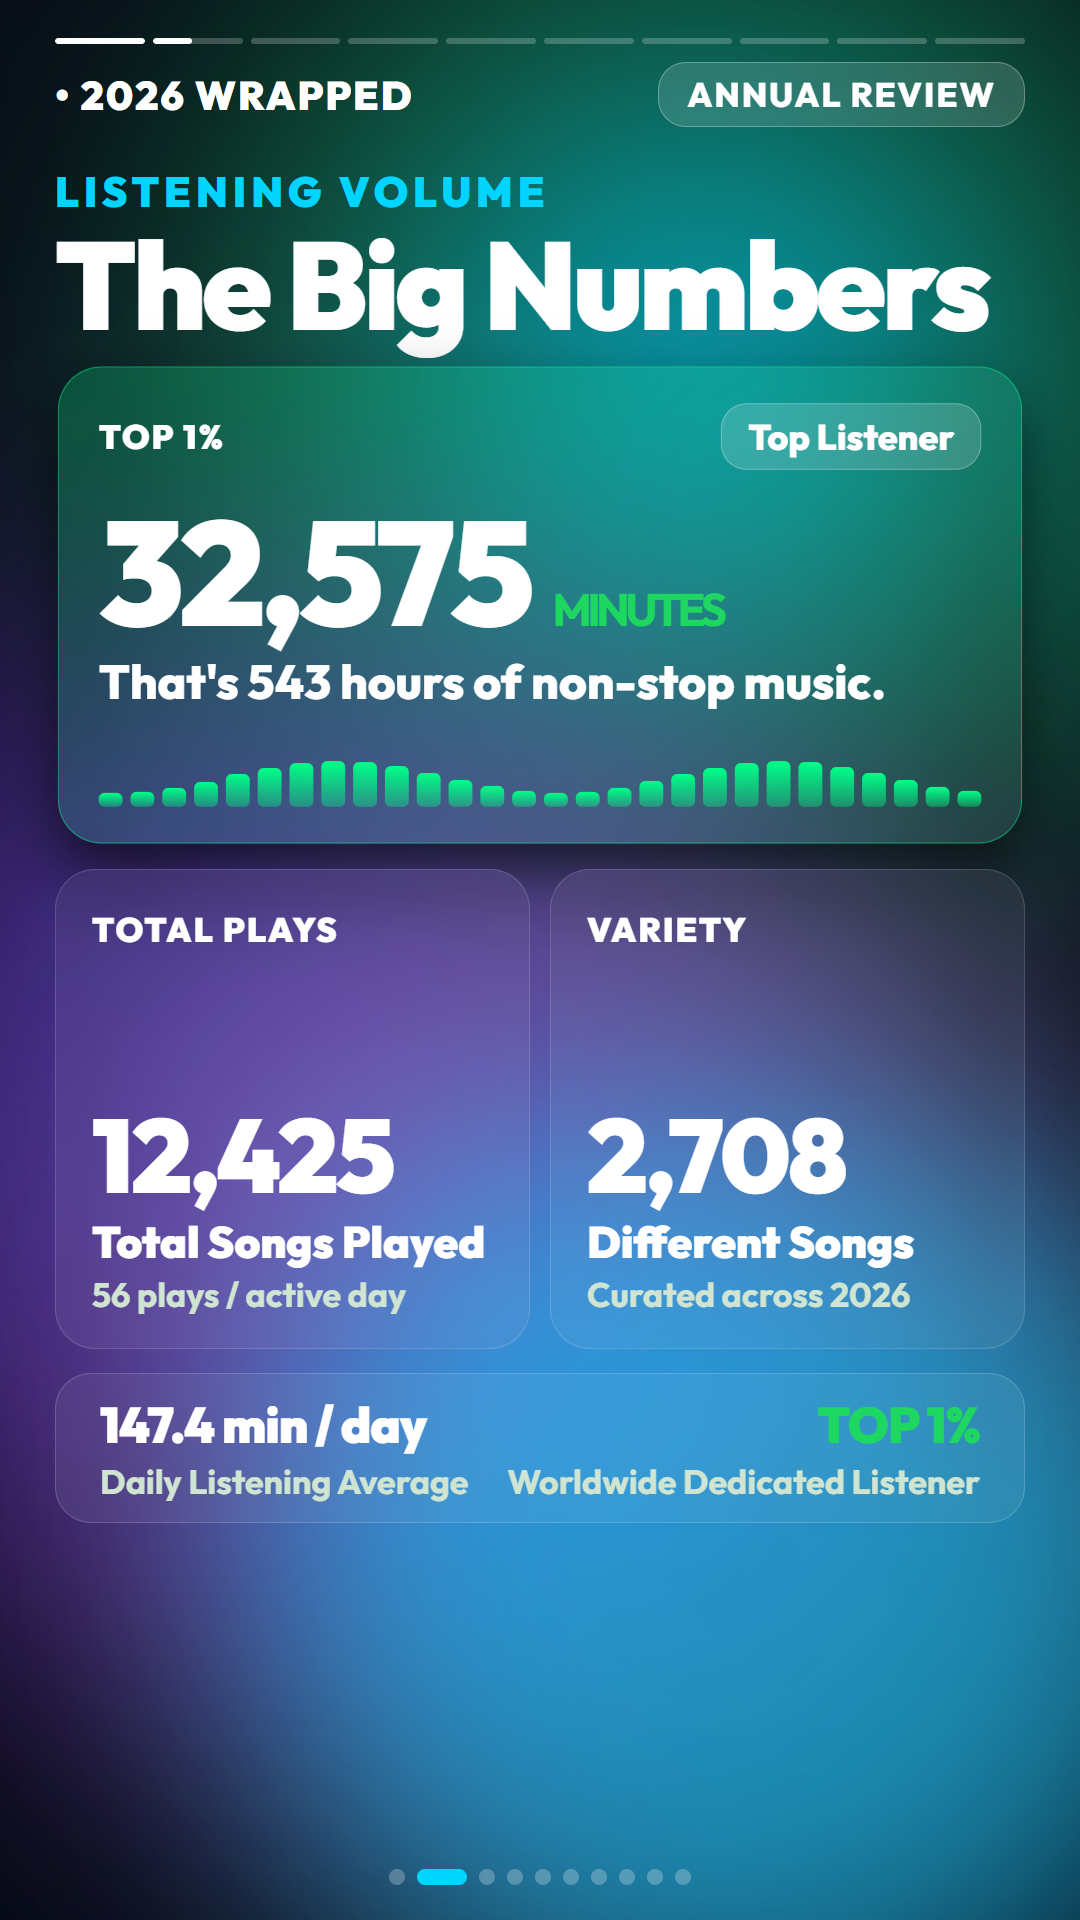
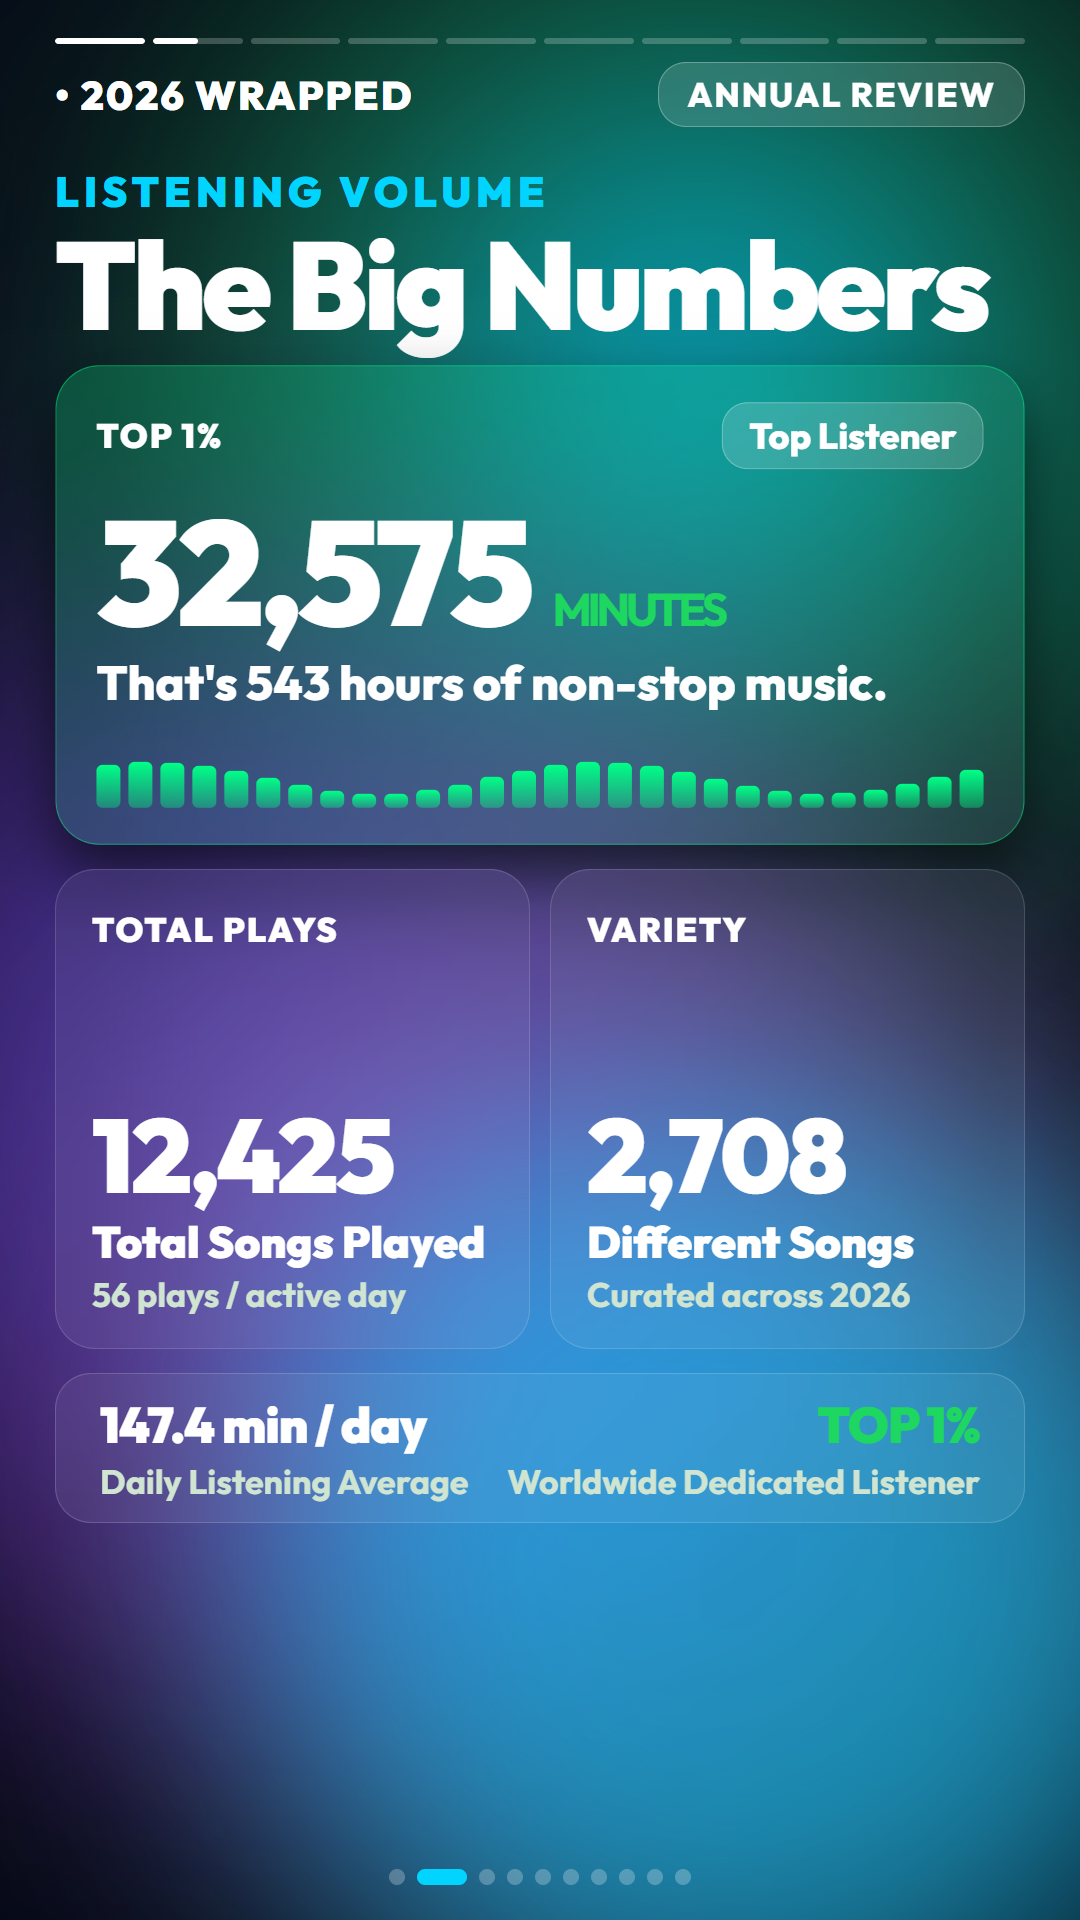
improved saving performance

diff --git a/src/server/static/app.js b/src/server/static/app.js
@@ -1553,11 +1553,13 @@ async function browseSavePath() {
       const inputEl = document.getElementById('inp-export-path');
       if (inputEl) inputEl.value = data.selected_path;
       showTerminalToast(`[PATH SELECTED] ${data.selected_path}`);
+      return data.selected_path;
     }
   } catch (err) {
     console.error('File browse error:', err);
     showTerminalToast(`[ERROR] File explorer dialog failed: ${err.message}`, true);
   }
+  return null;
 }
 
 async function saveCurrentPanelLocal() {
@@ -1585,53 +1587,52 @@ async function saveCurrentPanelLocal() {
 }
 
 /**
- * Saves and renders the video according to active parameters to the requested destination path.
- * Why: Guarantees that saving executes a fresh render matching current parameters
- * (whether custom slice sequence or single panel slice or full review), and updates the right-hand player.
+ * Saves and renders the video strictly according to the Custom Slices & Order settings
+ * to the requested destination path on disk.
+ * Why: Ensures that whenever the user clicks 'Save Video', the output file reflects the exact
+ * selection, sequence, and individual slide audio configuration chosen in the Composer.
  */
 async function saveVideoToPath() {
   const inputEl = document.getElementById('inp-export-path');
-  const targetPath = (inputEl ? inputEl.value : '').trim();
+  let targetPath = (inputEl ? inputEl.value : '').trim();
 
+  // If no path is entered yet, proactively open Windows File Explorer
   if (!targetPath) {
-    showTerminalToast('[WARNING] Please choose or enter a destination path with Browse... first', true);
-    if (inputEl) inputEl.focus();
+    showTerminalToast('[INFO] Opening Windows File Explorer to choose destination...');
+    targetPath = await browseSavePath();
+    if (!targetPath) {
+      showTerminalToast('[INFO] Save Video cancelled: No destination path chosen.');
+      return;
+    }
+  }
+
+  // Derive slice sequence strictly from Custom Slices & Order
+  const selectedOrdered = appState.slicesOrder.filter(pid => appState.selectedSlices.has(pid));
+  if (selectedOrdered.length === 0) {
+    showTerminalToast('[WARNING] Please select at least one slice in Custom Slices & Order before saving.', true);
     return;
   }
 
-  // Determine what parameters to render according to:
-  const selectedOrdered = appState.slicesOrder.filter(pid => appState.selectedSlices.has(pid));
-  const isCustomSequence = selectedOrdered.length !== 10 || selectedOrdered.some((pid, idx) => pid !== idx);
+  const isDefault10 = selectedOrdered.length === 10 && selectedOrdered.every((pid, idx) => pid === idx);
+  const totalSec = (selectedOrdered.length * 5.0).toFixed(1);
+  const seqNames = selectedOrdered.map(p => `#${p + 1}`).join(' → ');
+  const modeDesc = isDefault10
+    ? 'Full Presentation (10 slides • 50.0s)'
+    : `Custom Sequence (${selectedOrdered.length} slides • ${totalSec}s: [${seqNames}])`;
 
-  let payload = {
+  const payload = {
     target_path: targetPath,
-    render_first: true
+    render_first: true,
+    selected_panels: selectedOrdered,
+    fps: 25
   };
 
-  let modeDesc = 'Full Video (10 slides)';
-  if (isCustomSequence) {
-    payload.selected_panels = selectedOrdered;
-    modeDesc = `Custom Sequence (${selectedOrdered.length} slides)`;
-  } else if (appState.playbackScope === 'single') {
-    payload.panel_id = appState.currentPanel;
-    modeDesc = `Panel ${appState.currentPanel + 1} Slice (5.0s)`;
-  } else {
-    payload.selected_panels = [0, 1, 2, 3, 4, 5, 6, 7, 8, 9];
-    modeDesc = 'Full Presentation (50.0s)';
-  }
-
   setPreviewMode('video');
-  const isCustom = appState.playbackScope === 'custom';
-  const isSingle = appState.playbackScope === 'single';
-  const badgeText = isCustom ? 'CUSTOM EXPORT (25 FPS)' : (isSingle ? 'SLICE EXPORT (25 FPS)' : 'FULL EXPORT (25 FPS)');
-  const titleText = isCustom ? 'Exporting Custom Story' : (isSingle ? `Exporting Slide #${appState.currentPanel + 1}` : 'Exporting Full Story');
-  const subText = `${modeDesc} • Generating full 25 FPS stream with FFmpeg`;
-
   showRenderOverlay({
-    badge: badgeText,
-    title: titleText,
-    subtitle: subText,
-    path: targetPath || null
+    badge: isDefault10 ? 'FULL EXPORT (25 FPS)' : 'CUSTOM EXPORT (25 FPS)',
+    title: 'Exporting Presentation Video',
+    subtitle: `${modeDesc} • Generating full 25 FPS stream with FFmpeg`,
+    path: targetPath
   });
 
   showTerminalToast(`[RENDERING] Building ${modeDesc} and saving to: ${targetPath}...`);

diff --git a/src/renderer/preview_engine.js b/src/renderer/preview_engine.js
@@ -34,13 +34,15 @@ async function capturePreviews(options = {}) {
 
   const times = options.times || [
     { name: 'slide_1_year_in_sound', t: 2.5 },
-    { name: 'slide_2_big_numbers', t: 7.2 },
-    { name: 'slide_3_listening_clock', t: 11.9 },
-    { name: 'slide_4_top_songs', t: 16.6 },
-    { name: 'slide_5_top_albums', t: 21.4 },
-    { name: 'slide_6_top_artists', t: 26.1 },
-    { name: 'slide_7_top_discoveries', t: 30.8 },
-    { name: 'slide_8_top_genres', t: 35.6 }
+    { name: 'slide_2_big_numbers', t: 7.5 },
+    { name: 'slide_3_listening_clock', t: 12.5 },
+    { name: 'slide_4_top_songs', t: 17.5 },
+    { name: 'slide_5_top_albums', t: 22.5 },
+    { name: 'slide_6_top_artists', t: 27.5 },
+    { name: 'slide_7_top_discoveries', t: 32.5 },
+    { name: 'slide_8_top_genres', t: 37.5 },
+    { name: 'slide_9_most_listened_songs', t: 42.5 },
+    { name: 'slide_10_most_listened_artists', t: 47.5 }
   ];
 
   for (const s of times) {

diff --git a/src/server/app.py b/src/server/app.py
@@ -145,17 +145,17 @@ async def get_status() -> PanelStatusResponse:
 
     single_url = _output_url(single_path) if single_path.exists() else None
 
-    # Prioritize active panel slice if available, then fallback to last rendered video
-    if single_path.exists():
-        video_url = _output_url(single_path)
-    elif studio_service.last_slice_file and studio_service.last_slice_file.exists():
+    # Prioritize the most recently rendered video file if available
+    if studio_service.last_slice_file and studio_service.last_slice_file.exists():
         video_url = _output_url(studio_service.last_slice_file)
-    elif slice_path.exists():
-        video_url = _output_url(slice_path)
     elif custom_path.exists():
         video_url = _output_url(custom_path)
     elif full_video_path.exists():
         video_url = _output_url(full_video_path)
+    elif slice_path.exists():
+        video_url = _output_url(slice_path)
+    elif single_path.exists():
+        video_url = _output_url(single_path)
     else:
         video_url = None
 

diff --git a/src/server/service.py b/src/server/service.py
@@ -655,13 +655,15 @@ renderVideo({{
                 print(f"[Error] Custom sequence render failed: {stderr.decode('utf-8', errors='replace')}")
             else:
                 self.last_slice_file = out_path
+                import shutil
                 if target_path:
-                    import shutil
                     dest_p = Path(target_path.strip(' "\''))
                     if not dest_p.is_absolute():
                         dest_p = (ROOT_DIR / dest_p).resolve()
                     dest_p.parent.mkdir(parents=True, exist_ok=True)
                     shutil.copy2(out_path, dest_p)
+                if valid_panels == list(range(10)):
+                    shutil.copy2(out_path, OUTPUT_VIDEO_PATH)
         finally:
             self.is_rendering = False
             self.render_progress = 100.0

diff --git a/README.md b/README.md
@@ -6,18 +6,11 @@ A deterministic, frame-accurate web-to-video rendering pipeline and interactive 
   <img src="img/web_studio_preview.png" alt="2026 Wrapped Live Curation Studio" width="100%" />
 </div>
 
-<p align="center">
-  <img src="img/story_slide1.png" width="48%" alt="Slide 1 - Your Year in Sound" />
-  &nbsp;
-  <img src="img/story_slide2.png" width="48%" alt="Slide 2 - The Big Numbers" />
-</p>
-
 ---
 
-## Table of Contents
+## Overview
 - [Overview](#overview)
 - [Key Features](#key-features)
-- [System Architecture](#system-architecture)
 - [The 10 Wrapped Slides](#the-10-wrapped-slides)
 - [Dynamic Background Theme & Palette Engine](#dynamic-background-theme--palette-engine)
 - [Project Structure](#project-structure)
@@ -91,16 +84,116 @@ Each slide runs for **5.0 seconds** (0.65s staggered entrance, 3.80s living dyna
 
 | # | Slide Name | Visual Highlights | Key Data Displayed |
 |---|---|---|---|
-| **0** | **Your Year in Sound** | Harmonic frequency waveform with month timeline markers (`JAN`, `MAR`, `MAY (PEAK)`, etc.) & 4 Bento pods | Total Plays, Minutes Streamed, Different Songs, Longest Day Streak |
-| **1** | **The Big Numbers** | 28-channel live audio equalizer stream & hero metric card | Total Listening Time, Total Plays, Different Songs, Daily Average (min/day), Worldwide Listener Tier |
-| **2** | **Listening Clock** | 24-hour radial compass with workday bridge (7 AM – 3 PM) & weekly equalizer | Peak Hour, Workday listening share, Weekly rhythm with Wednesday and Saturday spikes |
-| **3** | **Top Songs** | Spinning vinyl disc with high-res cover + curated 1..5 ranking | Top 5 curated songs with titles, artists, and embedded FLAC front covers (clean, no play counts) |
-| **4** | **Top Albums** | Spinning purple vinyl disc + curated 1..5 album grid | Top 5 albums, artist names, and album artwork |
-| **5** | **Top Artists** | Pulsating avatar glow + ranking cards | Top 5 curated artists with portraits resolved from Namida archives |
-| **6** | **Top Discoveries** | Magenta neon halo & new artist discovery cards | 5 breakthrough artists discovered during the year |
-| **7** | **Top Genres** | SVG Donut chart rollout & 5 genre anthem cards | Top 5 genres paired with representative signature anthems |
-| **8** | **Most Listened Songs** | Spotlight card with vinyl record + telemetry pills | Top 5 streamed songs from raw Namida logs with exact play counts and minutes |
-| **9** | **Most Listened Artists** | Avatar spotlight + streaming metric pills | Top 5 streamed artists from raw Namida logs with exact play counts and minutes |
+| **1** | **Your Year in Sound** | Harmonic frequency waveform with 12-month timeline markers (`JAN`, `MAR`, `MAY (PEAK)`) & 4 Bento pods | Total Plays, Minutes Streamed, Different Songs, Longest Day Streak |
+| **2** | **The Big Numbers** | 28-channel live audio equalizer stream & hero metric card | Total Listening Time, Total Plays, Different Songs, Daily Average (`min/day`), Worldwide Listener Tier |
+| **3** | **Listening Clock** | 24-hour radial compass with workday bridge (7 AM – 3 PM) & weekly equalizer | Peak Hour, Workday listening share, Weekly rhythm with Wednesday and Saturday spikes |
+| **4** | **Top Songs** | Spinning vinyl disc with high-res cover + curated 1..5 ranking | Top 5 curated songs with titles, artists, and embedded FLAC front covers |
+| **5** | **Top Albums** | Spinning purple vinyl disc + curated 1..5 album grid | Top 5 albums, artist names, and album artwork |
+| **6** | **Top Artists** | Pulsating avatar glow + ranking cards | Top 5 curated artists with portraits resolved from Namida archives |
+| **7** | **Top Discoveries** | Magenta neon halo & new artist discovery cards | 5 breakthrough artists discovered during the year |
+| **8** | **Top Genres** | SVG Donut chart rollout & 5 genre anthem cards | Top 5 genres paired with representative signature anthems |
+| **9** | **Most Listened Songs** | Spotlight card with vinyl record + telemetry pills | Top 5 streamed songs from raw Namida logs with exact play counts and minutes |
+| **10** | **Most Listened Artists** | Avatar spotlight + streaming metric pills | Top 5 streamed artists from raw Namida logs with exact play counts and minutes |
+
+---
+
+### Slide 1: Your Year in Sound
+<p align="center">
+  <img src="img/story_slide1.png" width="380" alt="Slide 1 - Your Year in Sound" />
+</p>
+
+- **Motion & Layout**: Smooth cubic-bezier harmonic frequency waveform across a 12-month horizontal axis, animated peak month pill (`MAY (PEAK)`), and 4 glassmorphic Bento metric pods.
+- **Data Displayed**: Total Plays, Total Minutes Streamed, Unique Songs Count, and Longest Daily Listening Streak.
+
+---
+
+### Slide 2: The Big Numbers
+<p align="center">
+  <img src="img/story_slide2.png" width="380" alt="Slide 2 - The Big Numbers" />
+</p>
+
+- **Motion & Layout**: 28-channel animated SVG equalizer stream, prominent $148\text{px}$ hero metric card, twin secondary metric cards, and a daily listening rhythm banner.
+- **Data Displayed**: Total Listening Time, Total Plays, Different Songs, Daily Listening Average (`147.4 min / day`), and Worldwide Listener Tier status (`Top 0.05% Listeners Worldwide`).
+
+---
+
+### Slide 3: Listening Clock
+<p align="center">
+  <img src="img/story_slide3.png" width="380" alt="Slide 3 - Listening Clock" />
+</p>
+
+- **Motion & Layout**: 24-hour radial clock compass with golden chronotype indicator, 7-day weekly equalizer bars, and workday listening share card.
+- **Data Displayed**: Peak Listening Hour, Workday Share (equidistributed across 7:00 AM – 3:00 PM), Chronotype profile (`Night Owl`), and Weekly Rhythm Spikes (`Wednesday & Saturday Releases`).
+
+---
+
+### Slide 4: Top Songs
+<p align="center">
+  <img src="img/story_slide4.png" width="380" alt="Slide 4 - Top Songs" />
+</p>
+
+- **Motion & Layout**: Spinning vinyl record with tone arm and high-resolution album artwork center label, followed by a curated #1 through #5 ranking list.
+- **Data Displayed**: Top 5 Curated Favorite Songs with track title, artist name, and embedded FLAC front cover art.
+
+---
+
+### Slide 5: Top Albums
+<p align="center">
+  <img src="img/story_slide5.png" width="380" alt="Slide 5 - Top Albums" />
+</p>
+
+- **Motion & Layout**: Large purple vinyl disc showcase with album cover center, paired with 4 glassmorphic supporting album cards.
+- **Data Displayed**: Top 5 Curated Albums with album title, release year, artist credits, and cover art.
+
+---
+
+### Slide 6: Top Artists
+<p align="center">
+  <img src="img/story_slide6.png" width="380" alt="Slide 6 - Top Artists" />
+</p>
+
+- **Motion & Layout**: Circular hero artist portrait with chromatic aberration glow and `#1 ARTIST` ribbon, accompanied by #2 through #5 artist cards.
+- **Data Displayed**: Top 5 Favorite Artists with circular avatars resolved automatically from the Namida artist backup database.
+
+---
+
+### Slide 7: Top Discoveries
+<p align="center">
+  <img src="img/story_slide7.png" width="380" alt="Slide 7 - Top Discoveries" />
+</p>
+
+- **Motion & Layout**: Magenta neon halo spotlight, discovery year badge, and 5 breakout artist discovery cards.
+- **Data Displayed**: 5 Breakthrough Creators and Artists discovered and added to playback rotation during 2026.
+
+---
+
+### Slide 8: Top Genres
+<p align="center">
+  <img src="img/story_slide8.png" width="380" alt="Slide 8 - Top Genres" />
+</p>
+
+- **Motion & Layout**: Multi-colored SVG concentric donut chart with percentage breakdown, genre share cards, and representative anthem ribbon.
+- **Data Displayed**: Top 5 Music Genres paired with signature anthem tracks.
+
+---
+
+### Slide 9: Most Listened Songs (Namida Telemetry)
+<p align="center">
+  <img src="img/story_slide9.png" width="380" alt="Slide 9 - Most Listened Songs" />
+</p>
+
+- **Motion & Layout**: Spotlight card with vinyl record, rank indicator pills, and exact telemetry listening counters.
+- **Data Displayed**: Top 5 Streamed Songs from raw Namida playback logs with exact play counts and accumulated listening minutes.
+
+---
+
+### Slide 10: Most Listened Artists (Namida Telemetry)
+<p align="center">
+  <img src="img/story_slide10.png" width="380" alt="Slide 10 - Most Listened Artists" />
+</p>
+
+- **Motion & Layout**: Hero avatar spotlight with neon border glow, verified telemetry badges, and stacked artist stream ranking pills.
+- **Data Displayed**: Top 5 Streamed Artists computed directly from SQLite play events with total plays and streaming minutes.
 
 ---
 
@@ -127,8 +220,7 @@ NamidaWrapped/
 │   └── .gitkeep
 ├── img/                                   # High-resolution screenshots and visual previews
 │   ├── web_studio_preview.png             # Split-screen Web Studio dashboard preview
-│   ├── story_slide1.png                   # Slide 1 (Your Year in Sound) vertical capture
-│   └── story_slide2.png                   # Slide 2 (The Big Numbers) vertical capture
+│   └── story_slide1.png .. story_slide10.png # Vertical captures for all 10 story slides
 ├── output/                                # Generated manifests, audio, storyboards, and MP4s
 │   ├── .gitkeep
 │   ├── artworks/                          # Extracted artist portraits and album artwork
